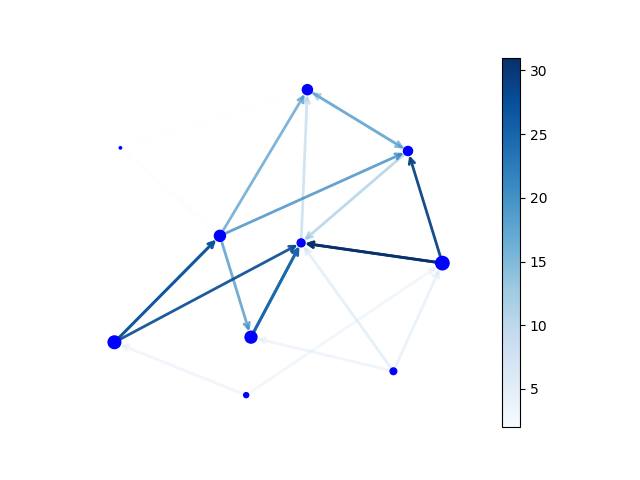
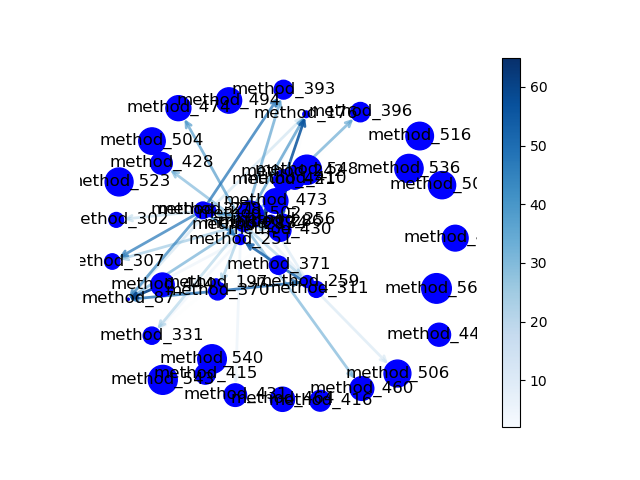
Make Network graph of pickled output

diff --git a/model/visualize_graph.py b/model/visualize_graph.py
@@ -8,17 +8,15 @@ from networkx import DiGraph
 
 import pickle
 
-# with open("gpickle.pickle", 'rb') as handler:
-#     G = pickle.load(handler)
-
-G = nx.generators.directed.random_k_out_graph(10, 3, 0.5)
-
-with open("randomGraphPickle.pickle", 'wb') as handle:
-    pickle.dump(G, handle)
-
-with open("randomGraphPickle.pickle", 'rb') as handler:
+with open("gpickle.pickle", 'rb') as handler:
     G = pickle.load(handler)
 
+text_labels = list(G.nodes)
+
+label_dict = {}
+for i, node in enumerate(G.nodes):
+    label_dict[node] = text_labels[i]
+print(label_dict)
 pos = nx.layout.spring_layout(G)
 
 
@@ -27,12 +25,12 @@ M = G.number_of_edges()
 edge_colors = range(2, M + 2)
 edge_alphas = [(5 + i) / (M + 4) for i in range(M)]
 
-
+labels = nx.draw_networkx_labels(G, pos, label_dict)
 nodes = nx.draw_networkx_nodes(G, pos, node_size=node_sizes, node_color='blue')
 edges = nx.draw_networkx_edges(G, pos, node_size=node_sizes, arrowstyle='->',
                                arrowsize=10, edge_color=edge_colors,
                                edge_cmap=plt.cm.Blues, width=2)
-                               
+
 # set alpha value for each edge
 for i in range(M):
     edges[i].set_alpha(edge_alphas[i])
